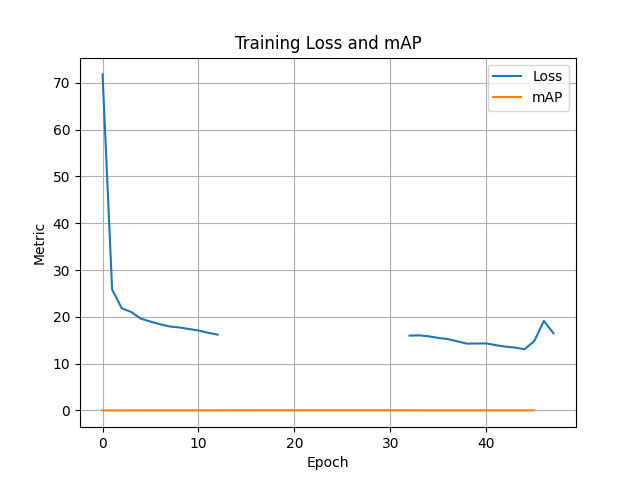
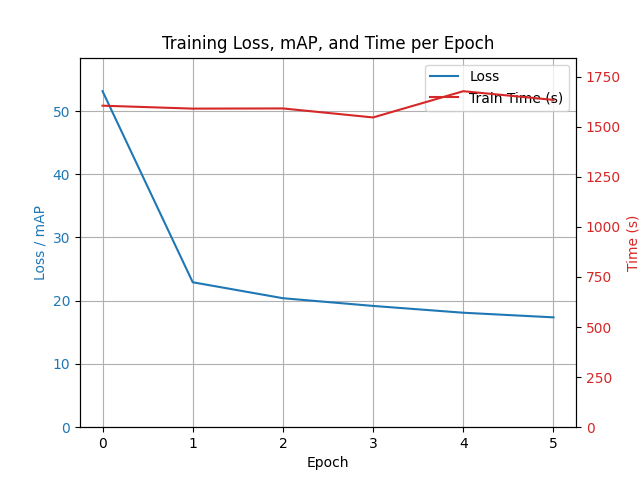
metrics

diff --git a/YOLOv1/train.py b/YOLOv1/train.py
@@ -12,7 +12,7 @@ from data import VOCDataset
 from model import YOLOv1, YOLOv1ViT
 from loss import YOLOLoss
 import config
-from utils import batch_to_mAP_list
+from utils import batch_to_mAP_list, plot_training_metrics
 
 # Create necessary directories
 os.makedirs(f"checkpoints/{config.model_name}", exist_ok=True)
@@ -61,7 +61,7 @@ scheduler = LambdaLR(optim, lr_lambda=lr_schedule)
 start_epoch = 0
 best_loss = float('inf')
 
-checkpoint_path = f"checkpoints/{config.model_name}/checkpoint_epoch81.pth"
+checkpoint_path = f"checkpoints/{config.model_name}/best_model.pth"
 if os.path.exists(checkpoint_path):
     checkpoint = torch.load(checkpoint_path, map_location=config.device)
     model.load_state_dict(checkpoint['model_state_dict'])
@@ -91,6 +91,7 @@ for epoch in range(start_epoch, config.EPOCHS):
     epoch_loss = 0
     start_time = time.time()
 
+    batch_idx = 0
     for images, targets in train_loader:
         images, targets = images.to(config.device), targets.to(config.device)
         out = model(images)
@@ -101,6 +102,10 @@ for epoch in range(start_epoch, config.EPOCHS):
         optim.step()
 
         epoch_loss += loss.item()
+        if batch_idx % 100 == 0:
+            print(loss.item())
+
+        batch_idx += 1
 
     scheduler.step()
 
@@ -145,25 +150,5 @@ for epoch in range(start_epoch, config.EPOCHS):
         'train_times': train_times
     }, f"metrics/{config.model_name}/train_metrics.pth")
 
+    plot_training_metrics(train_losses, map_scores, train_times, start_epoch, config.model_name)
 
-# Plot Loss and mAP
-plt.figure()
-plt.plot(train_losses, label='Loss')
-plt.plot(range(0, config.EPOCHS, 5), map_scores, label='mAP')
-plt.xlabel("Epoch")
-plt.ylabel("Metric")
-plt.title("Training Loss and mAP")
-plt.legend()
-plt.grid(True)
-plt.savefig(f"images/{config.model_name}/metrics.png")
-plt.close()
-
-# Plot training time
-plt.figure()
-plt.plot(train_times, label='Train Time (s)')
-plt.xlabel("Epoch")
-plt.ylabel("Time (s)")
-plt.title("Training Time per Epoch")
-plt.grid(True)
-plt.savefig(f"images/{config.model_name}/train_times.png")
-plt.close()

diff --git a/YOLOv1/utils.py b/YOLOv1/utils.py
@@ -1,5 +1,7 @@
 import torch
 from collections import Counter
+import os
+import matplotlib.pyplot as plt
 import config
 
 def xywh_to_xyxy(box):
@@ -129,3 +131,37 @@ def batch_to_mAP_list(preds: torch.Tensor, targets: torch.Tensor):
         })
 
     return preds_list, targets_list
+
+
+
+def plot_training_metrics(train_losses, map_scores, train_times, start_epoch, model_name, save_dir="images"):
+    os.makedirs(f"{save_dir}/{model_name}", exist_ok=True)
+
+    fig, ax1 = plt.subplots()
+
+    # Loss and mAP on left axis
+    ax1.plot(train_losses, label='Loss', color='tab:blue')
+    if map_scores:
+        map_epochs = list(range(10 + (start_epoch // 10) * 10, start_epoch + len(map_scores) * 10 + 1, 10))
+        ax1.plot(map_epochs, map_scores, label='mAP', color='tab:green')
+    ax1.set_xlabel("Epoch")
+    ax1.set_ylabel("Loss / mAP", color='tab:blue')
+    ax1.set_ylim(0, max(max(train_losses, default=0), max(map_scores, default=0)) * 1.1)
+    ax1.tick_params(axis='y', labelcolor='tab:blue')
+    ax1.grid(True)
+
+    # Training time on right axis
+    ax2 = ax1.twinx()
+    ax2.plot(train_times, label='Train Time (s)', color='tab:red')
+    ax2.set_ylabel("Time (s)", color='tab:red')
+    ax2.set_ylim(0, max(train_times) * 1.1)
+    ax2.tick_params(axis='y', labelcolor='tab:red')
+
+    # Combine legends
+    lines1, labels1 = ax1.get_legend_handles_labels()
+    lines2, labels2 = ax2.get_legend_handles_labels()
+    ax1.legend(lines1 + lines2, labels1 + labels2, loc='upper right')
+
+    plt.title("Training Loss, mAP, and Time per Epoch")
+    plt.savefig(f"{save_dir}/{model_name}/metrics.png")
+    plt.close()

diff --git a/YOLOv1/view_metrics.py b/YOLOv1/view_metrics.py
@@ -2,6 +2,8 @@ import torch
 import matplotlib.pyplot as plt
 import os
 import config  # assumes config.model_name and config.EPOCHS are defined
+from utils import plot_training_metrics
+
 
 # Load metrics
 metrics_path = f"metrics/{config.model_name}/train_metrics.pth"
@@ -11,25 +13,5 @@ metrics = torch.load(metrics_path)
 train_losses = metrics['losses']
 map_scores = metrics['mAP']
 train_times = metrics['train_times']
-
-# Plot Loss and mAP
-plt.figure()
-plt.plot(train_losses, label='Loss')
-plt.plot(range(0, len(train_losses), 5), map_scores, label='mAP')  # assumes evaluation every 5 epochs
-plt.xlabel("Epoch")
-plt.ylabel("Metric")
-plt.title("Training Loss and mAP")
-plt.legend()
-plt.grid(True)
-plt.savefig(f"images/{config.model_name}/metrics.png")
-plt.show()
-
-# Plot training time
-plt.figure()
-plt.plot(train_times, label='Train Time (s)')
-plt.xlabel("Epoch")
-plt.ylabel("Time (s)")
-plt.title("Training Time per Epoch")
-plt.grid(True)
-plt.savefig(f"images/{config.model_name}/train_times.png")
-plt.show()
+start_epoch = 0  # or load from checkpoint if resuming
+plot_training_metrics(train_losses, map_scores, train_times, start_epoch, config.model_name)

diff --git a/YOLOv1/config.py b/YOLOv1/config.py
@@ -1,7 +1,7 @@
 import torch
 
 # Train settings
-EPOCHS = 125
+EPOCHS = 150
 DATA_PATH = "data"
 BATCH_SIZE = 64
 LEARNING_RATE = 1e-4
